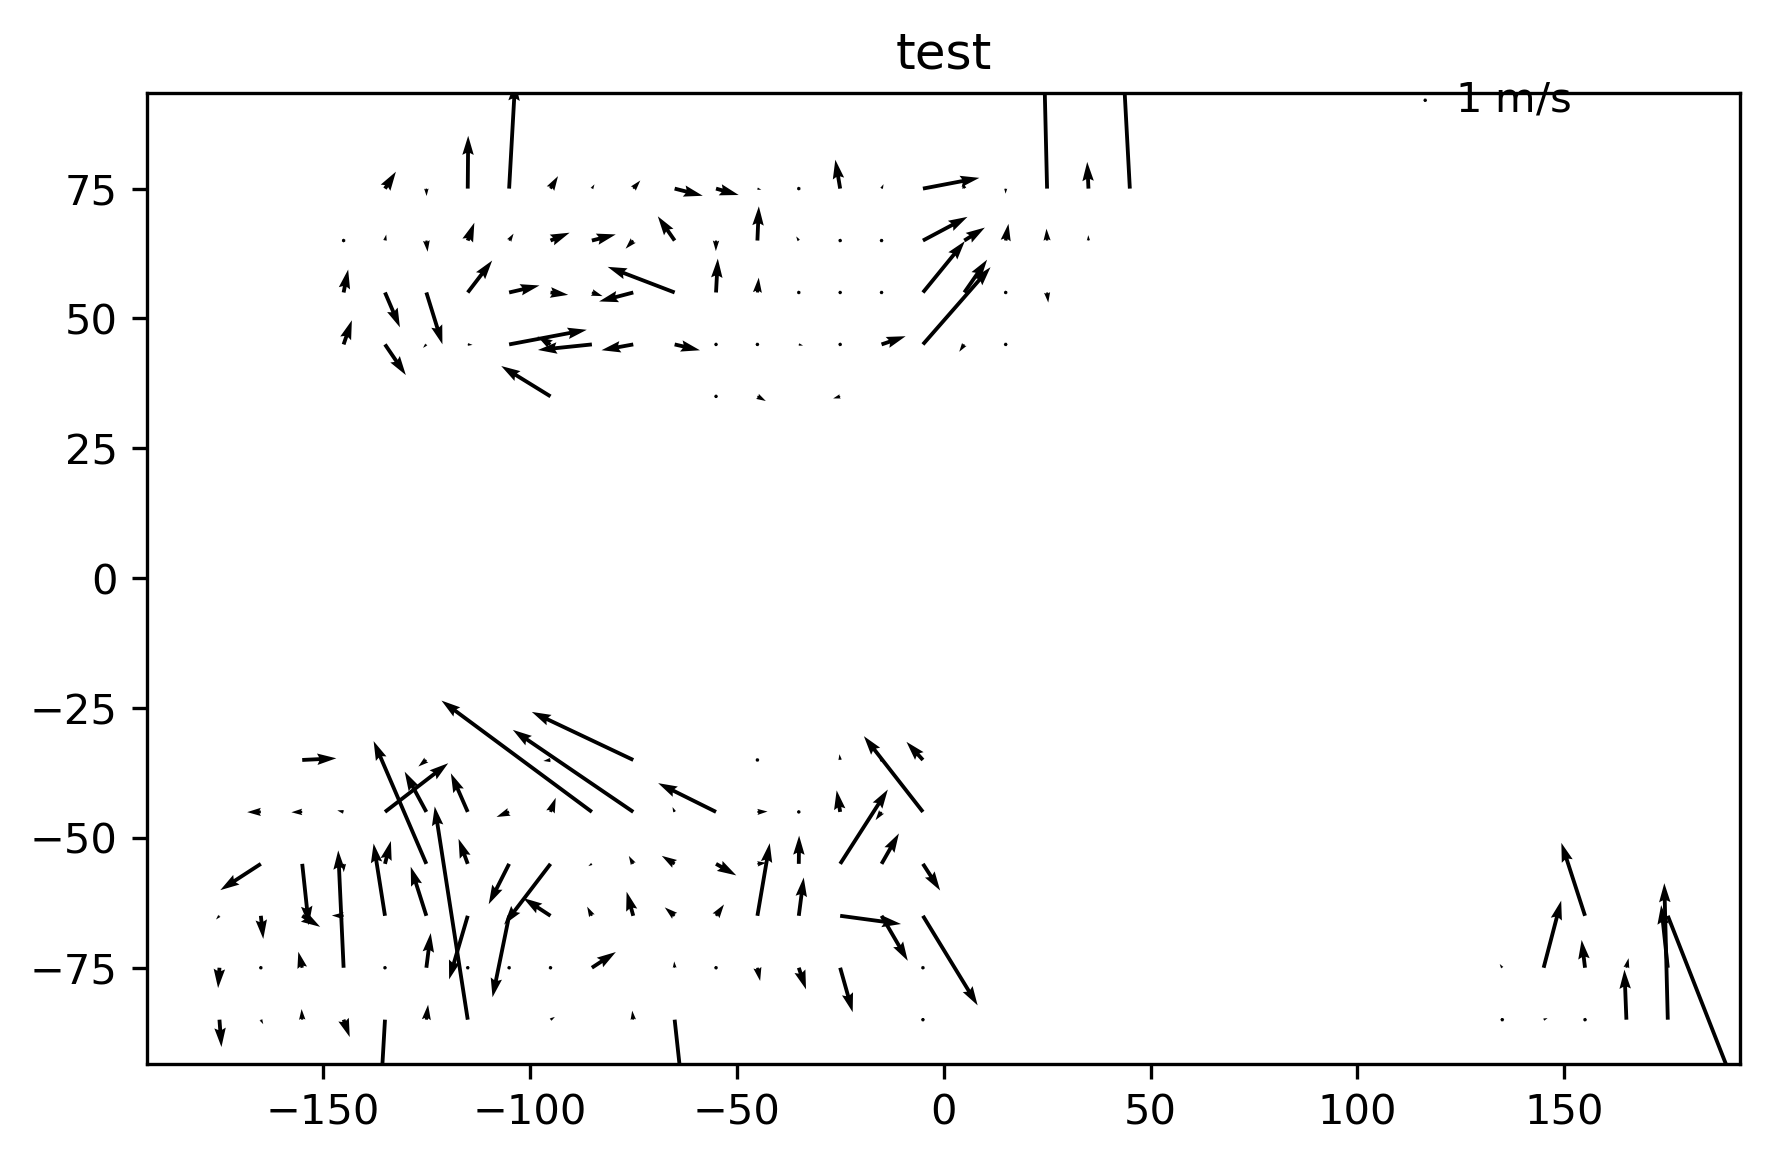
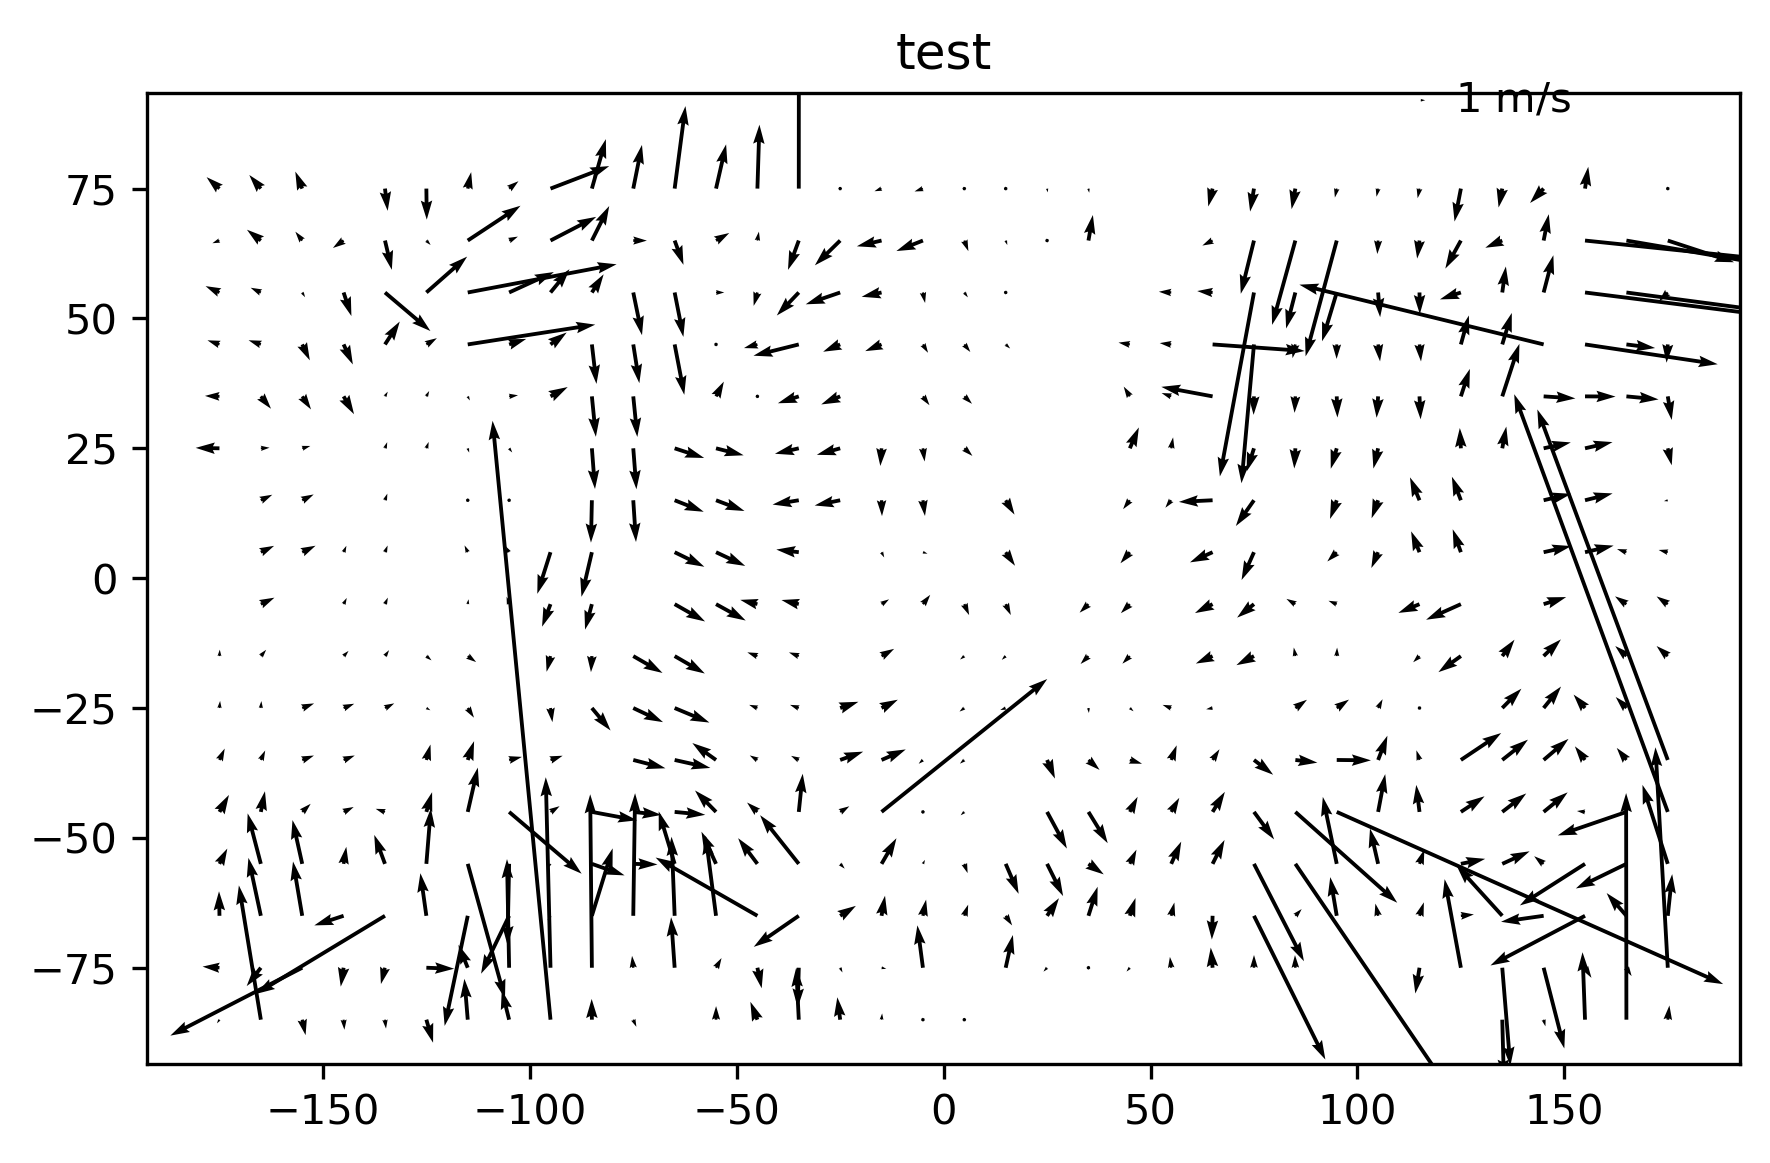
fixed swather again

diff --git a/src/plotter.py b/src/plotter.py
@@ -16,6 +16,8 @@ from dateutil.parser import parse
 
 def map_plotter(ds, title, label, units_label=''):
     values=np.squeeze(ds[label].values)
+    print('frame shape')
+    print(values.shape)
     fig, ax = plt.subplots()
     im = ax.imshow(values, cmap='viridis', extent=[ds['longitude'].min(
         ), ds['longitude'].max(), ds['latitude'].min(), ds['latitude'].max()])
@@ -37,16 +39,16 @@ def main():
     mind=ds_map['obs_time'].min(skipna=True).values
     #print(mind)
     timedelta=mind+np.timedelta64(1, 'h')
-    ds_map=ds_map.where((ds_map.obs_time>mind) & (ds_map.obs_time<timedelta))
-    map_plotter(ds_map, 'snpp_o', 'humidity_overlap', ' ', 0, 0.014)
-    map_plotter(ds_map, 'snpp', 'specific_humidity_mean', ' ', 0, 0.014)
+   # ds_map=ds_map.where((ds_map.obs_time>mind) & (ds_map.obs_time<timedelta))
+    map_plotter(ds_map, 'snpp_o', 'humidity_overlap', )
+    map_plotter(ds_map, 'snpp', 'specific_humidity_mean')
     
     ds_map=ds.loc[{'day':datetime(2020,7,3),'plev':706.6,'time':'pm','satellite':'j1'}]
     
     timedelta=mind+np.timedelta64(1, 'h')
     #ds_map=ds_map.where((ds_map.obs_time>mind) & (ds_map.obs_time<timedelta))
-    map_plotter(ds_map, 'j1_o', 'humidity_overlap', ' ', 0, 0.014)
-    map_plotter(ds_map, 'j1', 'specific_humidity_mean', ' ', 0, 0.014)
+    map_plotter(ds_map, 'j1_o', 'humidity_overlap')
+    map_plotter(ds_map, 'j1', 'specific_humidity_mean')
     
 if __name__=="__main__":
     main()

diff --git a/src/amv_calculators.py b/src/amv_calculators.py
@@ -56,21 +56,24 @@ def prepare_ds(ds):
     ds['v'] = xr.full_like(ds['specific_humidity_mean'], fill_value=np.nan)
     return ds
 
-def swath_initializer(ds):   
-    dhours=60   
+def swath_initializer(ds, dmins):   
+    number=(24*60)/dmins
     mind=ds['obs_time'].min(skipna=True).values
-    hours=np.arange(dhours,dhours*24,dhours)
+    times=np.arange(dmins,dmins*number,dmins)
+    print(times)
     swathes=[]
-
-    swathes.append([mind, mind+np.timedelta64(dhours, 'm')])
-    for hour in hours:
-        swathes.append([mind+np.timedelta64(hour, 'm'),
-                        mind+np.timedelta64(hour+dhours, 'm')])
+    swathes.append([mind, mind+np.timedelta64(dmins, 'm')])
+    for time in times:
+        time=int(round(time))
+        swathes.append([mind+np.timedelta64(time, 'm'),
+                        mind+np.timedelta64(time+dmins, 'm')])
     return swathes
     
 
 def prepare_patch(ds_snpp, ds_j1, start, end):
     ds_snpp=ds_snpp.where((ds_snpp.obs_time > start) & (ds_snpp.obs_time<end))
+    start=start+np.timedelta64(50, 'm')
+    end=end+np.timedelta64(50, 'm')
     ds_j1=ds_j1.where((ds_j1.obs_time > start) & (ds_j1.obs_time<end))
     
     condition1=xr.ufuncs.logical_not(xr.ufuncs.isnan(ds_j1['obs_time']))

diff --git a/src/first_stage_amv.py b/src/first_stage_amv.py
@@ -36,7 +36,7 @@ def ds_unit_calc(ds, day,pressure, time):
     ds=calc.prepare_ds(ds)
     
     df=ds.to_dataframe()
-    swathes=calc.swath_initializer(ds)
+    swathes=calc.swath_initializer(ds,60)
   
     for swath in swathes:
         ds_snpp=ds.loc[{'satellite':'snpp'}]
